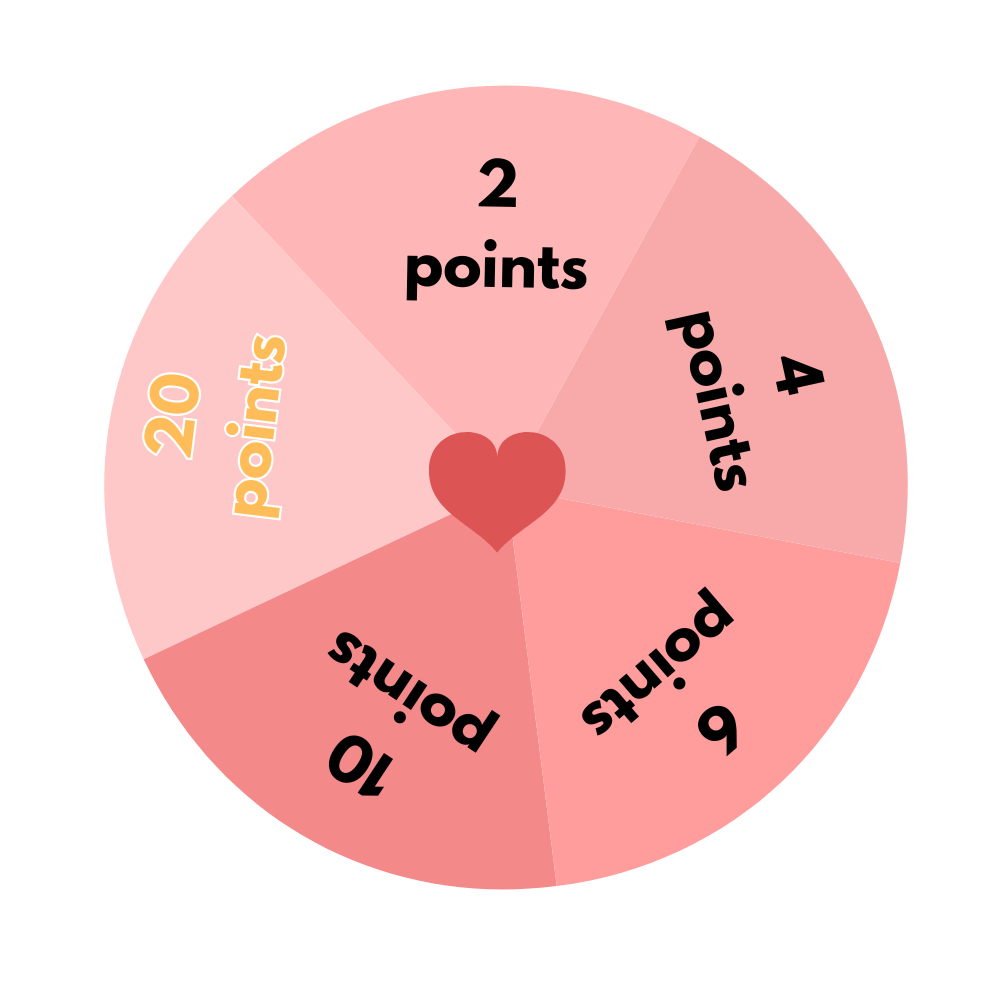
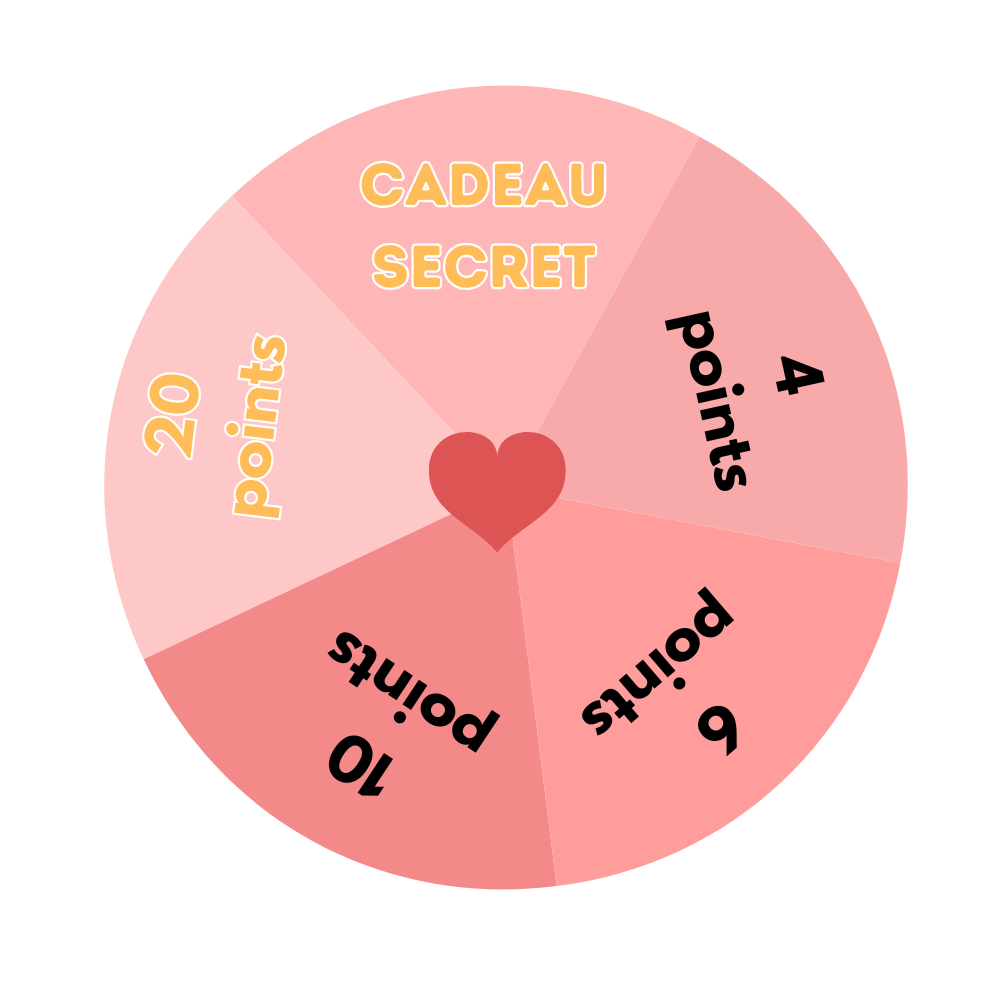
fixpleindechose

Changed region(s): [[0.341, 0.155, 0.62, 0.31]]

diff --git a/src/routes/(website)/games/krakball/+page.svelte b/src/routes/(website)/games/krakball/+page.svelte
@@ -1,6 +1,8 @@
 <script lang="ts">
   import { onMount } from 'svelte';
   import { gsap } from 'gsap';
+	import { Button } from '$lib/components/ui/button';
+	import * as Dialog from '$lib/components/ui/dialog/index.js';
 
   let cups = [1, 2, 3];
   let selectedCup: number | null = null;
@@ -33,11 +35,11 @@
 		const data = await response.json();
     console.log(data)
     if(data==="None"){
-      resultMessage='Vous avez déjà jouer 10 fois aujourd\'hui, attendais le lendeamin !'
+      resultMessage='Vous avez déjà jouer 15 fois aujourd\'hui, attendais le lendeamin !'
       return "-1";
     }
     if(data==="NONON"){
-      resultMessage='Tu me prends pour un débile?\n Reviens quand tu auras assez de points pour me défier'
+      resultMessage='Et tes points ils sont où?\n Reviens quand tu auras assez de points pour me défier'
       return "-1";
     }
     return "1";
@@ -276,12 +278,37 @@
    
 
   </button>
-  {#if resultMessage}
+  {#if resultMessage==="Dommage, pas cette fois haha !"}
+    <div class="message" style="color: red;">{resultMessage}</div>
+    {:else}
     <div class="message">{resultMessage}</div>
   {/if}
+  
 
   {#if msgstart}
-    <div ><br><br> Ahh, tu veux me défier? Okay mais tu vas devoir me donner un point alors haha ! <br><br>Si tu trouves la rose de Cupidon, je te donnerai en échange <b style="text-decoration: underline;"> 3 points</b>!</div>
+  <div style="margin-left: 2%;">
+    <br>
+		<Dialog.Root>
+			<Dialog.Trigger>
+				<Button class="cursor-pointer" size="sm"> <b>Comment jouer ❔</b></Button>
+			</Dialog.Trigger>
+			<Dialog.Content>
+				<Dialog.Header>
+					<Dialog.Title>La Roue Chanceuse</Dialog.Title>
+					<Dialog.Description>
+            <br>
+            <b>Ah, tu veux me défier ?</b> Très bien, mais il faudra me donner un point en échange, haha ! <br><br>
+
+            🌹 Si tu trouves la rose de Cupidon, je te donnerai <b style="text-decoration: underline;">3 points</b> en récompense ! À toi de jouer ! 💪
+	
+					</Dialog.Description>
+				</Dialog.Header>
+				<Dialog.Close>
+					<Button class="mt-2">Fermer</Button>
+				</Dialog.Close>
+			</Dialog.Content>
+		</Dialog.Root>
+	</div>
   {/if}
   {#if gameStarted}
     <div class="timer">Temps restant : {timeLeft} secondes</div>

diff --git a/src/routes/(website)/games/roue_random/+page.svelte b/src/routes/(website)/games/roue_random/+page.svelte
@@ -2,6 +2,8 @@
 	import { gsap } from 'gsap';
 	import wheel from '$lib/images/wheel.png';
 	import fleche from '$lib/images/fleche.png';
+	import { Button } from '$lib/components/ui/button';
+	import * as Dialog from '$lib/components/ui/dialog/index.js';
 
 	const SEGMENTS = 5;
 	const SEGMENT_NAMES = ['2 points', '20 points, INCROYABLE!!🪙', '10 points', '6 points', '4 points'];
@@ -56,20 +58,46 @@
 	}
 </script>
 
+
+
 <title>Krak'n Roses - RoueChanceuse</title>
 <div class="container">
 	<div class="wheel-frame">
 		<img class="wheel" src={wheel} alt="Roue de la chance" bind:this={wheelElement} />
 		<img class="arrow" src={fleche} alt="Flèche indicateur" />
 	</div>
-	{#if intromsg}
-		<div >
-			<h2 style="font-size: 18px;">
-				Fait tourner la roue toutes les 3 heures pour gagner des <b>points</b> !
-			</h2>
-		</div>
+
+
+	{#if intromsg} 
+	<div style="margin-left: 2%;">
+		<Dialog.Root>
+			<Dialog.Trigger>
+				<Button class="cursor-pointer" size="sm"> <b>Comment jouer ❔</b></Button>
+			</Dialog.Trigger>
+			<Dialog.Content>
+				<Dialog.Header>
+					<Dialog.Title>La Roue Chanceuse</Dialog.Title>
+					<Dialog.Description>
+						<br>
+						HAHAHA ! Tu viens tenter ta <b>chance</b> ?  <br> <br>
+					Très bien, voici le deal : tu peux gagner d'incroyables <b>récompenses</b>, et
+					peut-être même un cadeau <b>secret</b>... 🎁 Mais attention, tu ne peux jouer qu'une fois toutes les 3 heures.
+						<br><br>
+					Alors, reviens me voir et tente ta <b>chance</b> ! 🍀
+	
+	
+					</Dialog.Description>
+				</Dialog.Header>
+				<Dialog.Close>
+					<Button class="mt-2">Fermer</Button>
+				</Dialog.Close>
+			</Dialog.Content>
+		</Dialog.Root>
+	</div>
+		
 	{/if}
 
+	<br>
 	<button on:click={spinWheel} disabled={spinning}>
 		{spinning ? 'Rotation en cours...' : 'Jouer maintenant'}
 	</button>
@@ -124,6 +152,7 @@
 		font-size: 1.1rem;
 		background: #e74c3c;
 		color: white;
+		margin-left: 2%;
 		border: none;
 		border-radius: 8px;
 		cursor: pointer;

diff --git a/src/routes/(website)/home/+page.svelte b/src/routes/(website)/home/+page.svelte
@@ -66,8 +66,16 @@
 		<Dialog.Content >
 			<Dialog.Header>
 				<Dialog.Title>❔ • Informations</Dialog.Title>
-				<Dialog.Description>
-					Bienvenue sur notre jeu, amuse toi !
+				<Dialog.Description> <br>
+					Dans le royaume de l'amour, <b style="text-decoration: underline;">Cupidon</b> a décidé de vous mettre à l’épreuve. <br>
+					Différents mini-jeux ont été créés pour tester vos capacités et déterminer si vous êtes l’élu !  <br> <br>
+
+					🎯 Votre <b>mission</b> ? Gagnez un maximum de points à travers les mini-jeux, échangez-les dans le shop 
+					contre des récompenses et tentez de décrocher une place pour la soirée Krak’n Roses ! <br> <br>
+
+					💘 Mais ce n’est pas tout… Cupidon a perdu l’une de ses flèches dans les jeux. Serez-vous capable de découvrir sa cachette <b>secrète</b> ? <br> <br>
+
+					✨ <b style="text-decoration: underline; font-size:20px">Bonne chance et que les jeux commencent !</b> ✨
 				</Dialog.Description>
 			</Dialog.Header>
 			<Dialog.Close>

diff --git a/src/routes/(website)/games/roue_random/api/spin/+server.ts b/src/routes/(website)/games/roue_random/api/spin/+server.ts
@@ -5,7 +5,7 @@ import { canUserSpin, processSpin } from '$lib/server/db/utilities';
 import { eq } from 'drizzle-orm';
 
 // Mapping des gains par segment
-const SEGMENT_POINTS = [2, 20, 10, 6, 4]; // Index = segment
+const SEGMENT_POINTS = [0, 20, 10, 6, 4]; // Index = segment
 
 export async function GET({ locals }) { // Suppose que l'user est dans locals
   const userId = locals.user.id; // À adapter selon ton système d'authentification
@@ -24,7 +24,7 @@ export async function GET({ locals }) { // Suppose que l'user est dans locals
     }
 
     // Calcul du résultat
-    const probabilities = [40, 5, 5, 20, 30]; // Total = 100%
+    const probabilities = [5, 5, 10, 30, 50]; // Total = 100%
     const random = Math.random() * 100;
     
     let cumulative = 0;

diff --git a/src/lib/server/db/schema.ts b/src/lib/server/db/schema.ts
@@ -22,10 +22,9 @@ export const session = sqliteTable('session', {
 });
 
 export const ordrer = sqliteTable('ordrer', {
-  id: text('id').primaryKey(),
   userId: text('user_id')
-    .notNull()
-    .references(() => user.id),
+    .primaryKey()
+    .notNull(),
   cereal: integer('nb_cereal').default(0),
   pate: integer('nb_pate').default(0),
   nb_kebab: integer('nb_kebab').default(0),
@@ -46,3 +45,6 @@ export const stock = sqliteTable('stock', {
 export type Session = typeof session.$inferSelect;
 
 export type User = typeof user.$inferSelect;
+
+export type Order = typeof ordrer.$inferSelect;
+export type Stock = typeof stock.$inferSelect;

diff --git a/src/lib/server/auth.ts b/src/lib/server/auth.ts
@@ -26,6 +26,20 @@ export async function createSession(token: string, userId: string) {
 	return session;
 }
 
+
+export async function createOrderUser( userId2: string) {
+	const orderId: table.Order = {
+		userId: userId2,
+		cereal: 0,
+		pate: 0,
+		nb_kebab: 0,
+		nb_chocolat: 0,
+		nb_billet: 0
+	};
+	await db.insert(table.ordrer).values(orderId);
+	return orderId;
+}
+
 export async function validateSessionToken(token: string) {
 	const sessionId = encodeHexLowerCase(sha256(new TextEncoder().encode(token)));
 	const [result] = await db

diff --git a/src/routes/(website)/shop/+page.svelte b/src/routes/(website)/shop/+page.svelte
@@ -9,8 +9,8 @@
 	<h1 class="typography mb-3 ml-auto mr-auto text-lg text-gray-900">SHOP</h1>
 
 	<br><br>
-	<h3>
-		Un shop arrivent dès mardi ! <br><br>Alors préparer vos points car les stocks sont limités ! 🎁
+	<h3 style="text-align: center; font-size:20px">
+		Un shop arrivent dès mercredi matin! <br><br>De nombreuses récompenses seront disponibles alors préparez vos points car les stocks sont limités ! 🎁
 	</h3>
 
 	

diff --git a/src/routes/(logins)/login/+page.server.ts b/src/routes/(logins)/login/+page.server.ts
@@ -102,6 +102,7 @@ export const actions: Actions = {
 
       const sessionToken = auth.generateSessionToken();
       const session = await auth.createSession(sessionToken, userId);
+      await auth.createOrderUser(userId);
       auth.setSessionTokenCookie(event, sessionToken, session.expiresAt);
     } catch (e) {
       return fail(500, { message: 'An error has occurred' });

diff --git a/src/lib/server/db/utilities.ts b/src/lib/server/db/utilities.ts
@@ -126,7 +126,7 @@ export const processSpin = async (userId: string, points: number) => {
   return db.update(user)
     .set({
       points: sql`${user.points} + ${points}`,
-      last_spin: now // Timestamp actuel en secondes
+      //last_spin: now // Timestamp actuel en secondes
     })
     .where(eq(user.id, userId));
 };

diff --git a/src/routes/(website)/games/krakball/api/removepoint/+server.ts b/src/routes/(website)/games/krakball/api/removepoint/+server.ts
@@ -14,7 +14,7 @@ export async function GET({ locals }) { // Suppose que l'user est dans locals
   try {
 
     const temp = await Combiendefoisjouer(userId);
-    if(temp>=10)
+    if(temp>=15)
         return new Response(
             JSON.stringify("None"),
             { headers: { 'Content-Type': 'application/json' } }

diff --git a/src/routes/(website)/games/+page.svelte b/src/routes/(website)/games/+page.svelte
@@ -9,7 +9,7 @@
 
 
 <title>Krak'n Roses - Games</title>
-<h1 class="text-xl">Hi, {data.user.login}!</h1>
+<h1 class="text-xl">Hi, <b>{data.user.username}</b> !</h1>
 <h2 class="mt-5">There are so many games, choose yours !</h2>
 
 <div class="mt-5 flex w-fit flex-row flex-wrap justify-center gap-2">
